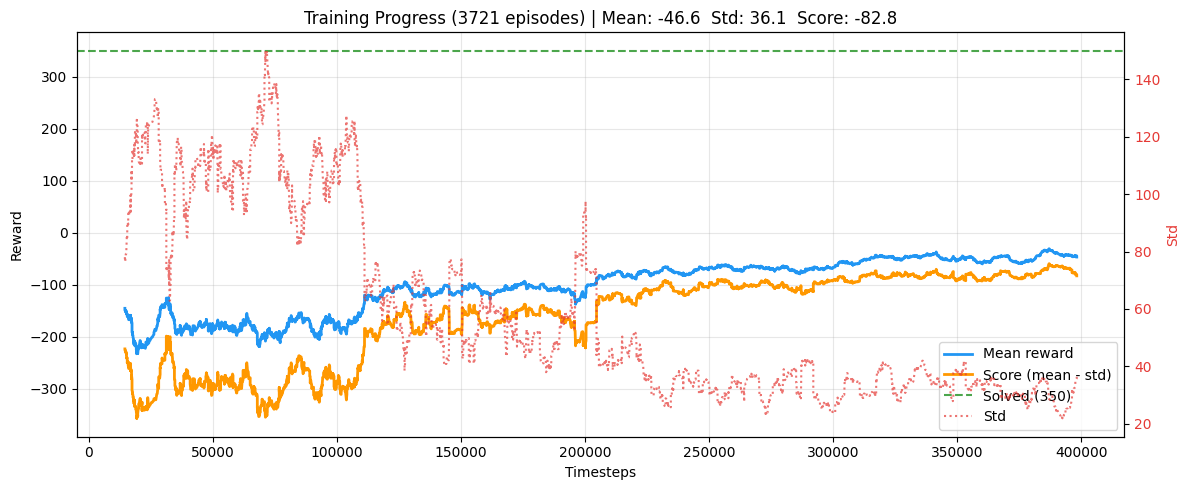
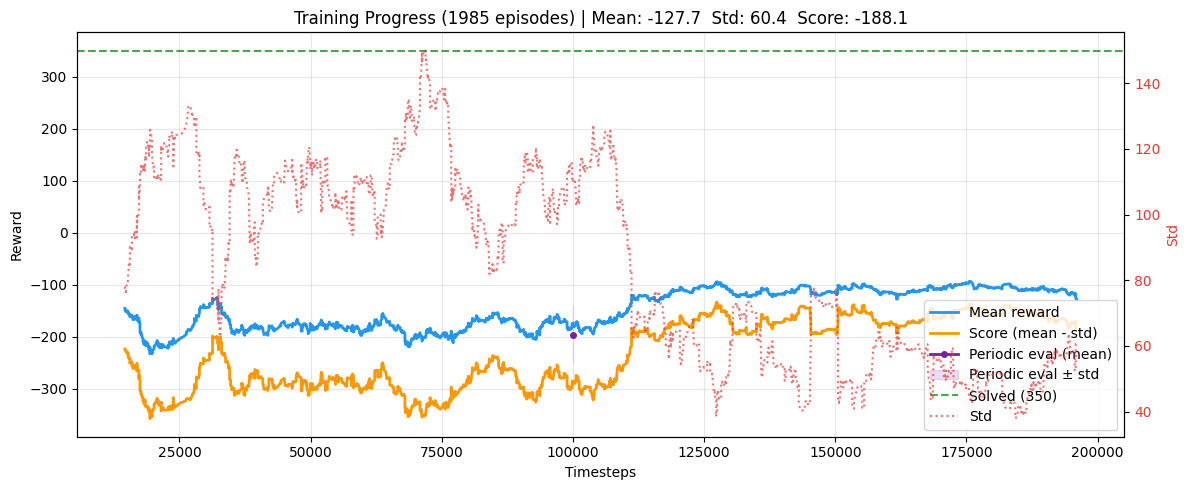
Refactor PeriodicEvalCallback to use evaluate_policy for episode evaluation and update related parameters
Modified the PeriodicEvalCallback to utilize the evaluate_policy function for evaluating episodes instead of a step-based approach. Updated the callback's parameters from n_eval_steps to n_eval_episodes for clarity. Adjusted the smoke_pipeline and Lunar Lander notebook to reflect these changes, ensuring consistency in evaluation frequency and method.

diff --git a/lunar_rl_common.py b/lunar_rl_common.py
@@ -16,6 +16,7 @@ from gymnasium import spaces
 from gymnasium.wrappers.transform_observation import AddRenderObservation
 
 from stable_baselines3.common.callbacks import BaseCallback
+from stable_baselines3.common.evaluation import evaluate_policy
 from stable_baselines3.common.monitor import Monitor
 from stable_baselines3.common.torch_layers import BaseFeaturesExtractor
 from stable_baselines3.common.utils import FloatSchedule, LinearSchedule
@@ -223,14 +224,14 @@ def get_train_vec_normalize(env) -> VecNormalize | None:
 
 class PeriodicEvalCallback(BaseCallback):
     """
-    Run eval for a fixed step budget on a synced eval env (eval-only VecNormalize, no reward norm).
-    Appends rows to CSV and stores records in eval_history for plotting.
+    Same protocol as pre-Hub eval: `evaluate_policy` on a synced VecNormalize eval env (dict obs).
+    The env simulation runs on CPU (DummyVecEnv); policy inference uses the model's device.
     """
 
     def __init__(
         self,
         eval_freq: int,
-        n_eval_steps: int,
+        n_eval_episodes: int,
         seed: int,
         csv_path: str = "logs/periodic_eval.csv",
         env_id: str | None = None,
@@ -239,7 +240,7 @@ class PeriodicEvalCallback(BaseCallback):
     ):
         super().__init__(verbose)
         self.eval_freq = eval_freq
-        self.n_eval_steps = n_eval_steps
+        self.n_eval_episodes = n_eval_episodes
         self.seed = seed
         self.csv_path = csv_path
         self.env_id = env_id
@@ -267,7 +268,7 @@ class PeriodicEvalCallback(BaseCallback):
                         "mean_reward",
                         "std_reward",
                         "n_episodes",
-                        "n_eval_steps",
+                        "n_eval_episodes",
                     ]
                 )
             w.writerow(
@@ -276,7 +277,7 @@ class PeriodicEvalCallback(BaseCallback):
                     mean_reward,
                     std_reward,
                     n_episodes,
-                    self.n_eval_steps,
+                    self.n_eval_episodes,
                 ]
             )
         self.eval_history.append(
@@ -296,35 +297,18 @@ class PeriodicEvalCallback(BaseCallback):
 
         eval_env = make_eval_vec_env_synced(train_vn, self.seed, self.env_id)
         try:
-            obs = eval_env.reset()
-            ep_returns: list[float] = []
-            ep_return = 0.0
-            steps = 0
-            while steps < self.n_eval_steps:
-                action, _ = self.model.predict(obs, deterministic=self.deterministic)
-                obs, rewards, dones, _ = eval_env.step(action)
-                ep_return += float(rewards[0])
-                steps += 1
-                if dones[0]:
-                    ep_returns.append(ep_return)
-                    ep_return = 0.0
-            if ep_return != 0.0 and not dones[0]:
-                # unfinished episode at horizon — optional: could append; plan focuses on completed
-                pass
-
-            n_ep = len(ep_returns)
-            if n_ep >= 1:
-                mean_r = float(np.mean(ep_returns))
-                std_r = float(np.std(ep_returns)) if n_ep > 1 else 0.0
-            else:
-                mean_r = float("nan")
-                std_r = float("nan")
-                warnings.warn(
-                    "PeriodicEvalCallback: no completed episode in eval window; "
-                    "increase n_eval_steps or check env."
-                )
-
-            self._write_row(self.num_timesteps, mean_r, std_r, n_ep)
+            mean_r, std_r = evaluate_policy(
+                self.model,
+                eval_env,
+                n_eval_episodes=self.n_eval_episodes,
+                deterministic=self.deterministic,
+            )
+            self._write_row(
+                self.num_timesteps,
+                float(mean_r),
+                float(std_r),
+                self.n_eval_episodes,
+            )
         finally:
             eval_env.close()
 

diff --git a/smoke_pipeline.py b/smoke_pipeline.py
@@ -54,7 +54,7 @@ def main() -> int:
         # Trigger at least one eval during short run (eval_freq small)
         eval_cb = PeriodicEvalCallback(
             eval_freq=2048,
-            n_eval_steps=6000,
+            n_eval_episodes=2,
             seed=seed,
             csv_path=csv_path,
             env_id=env_id,
